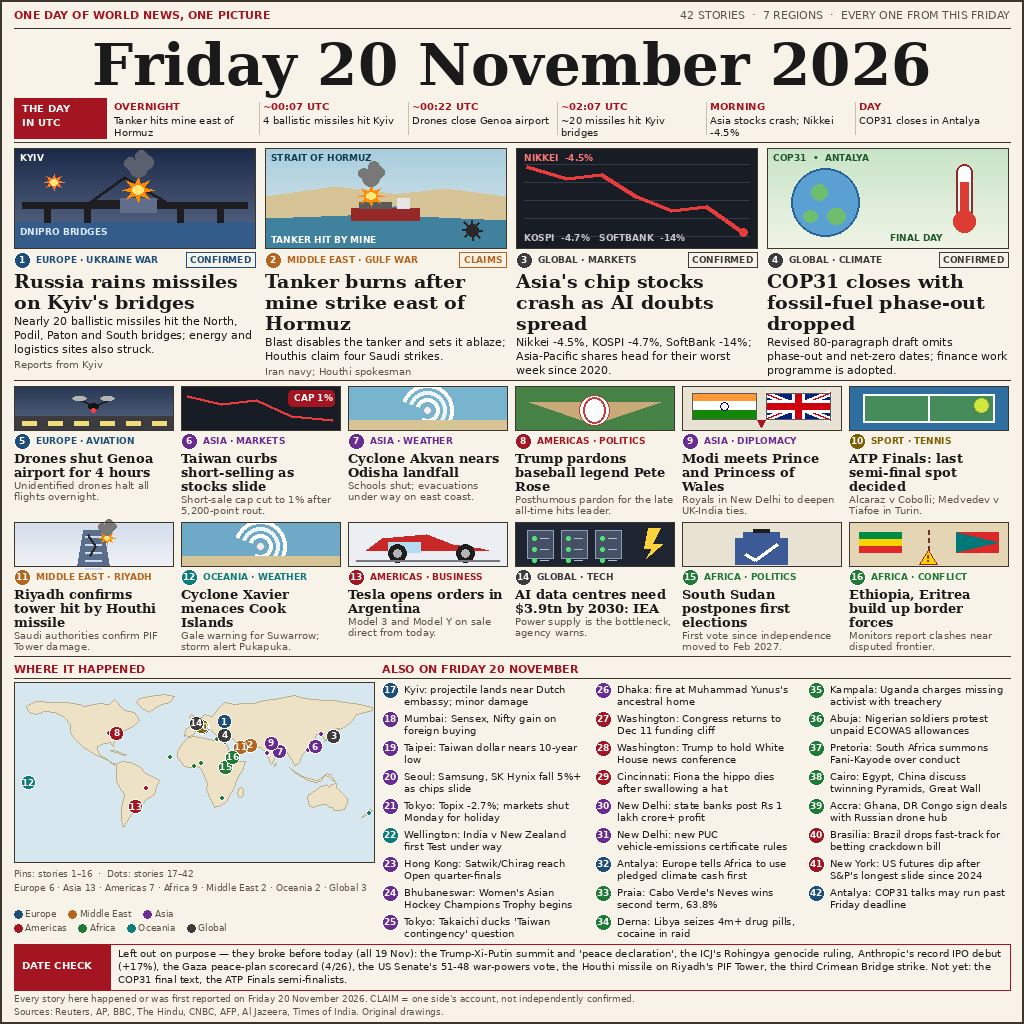
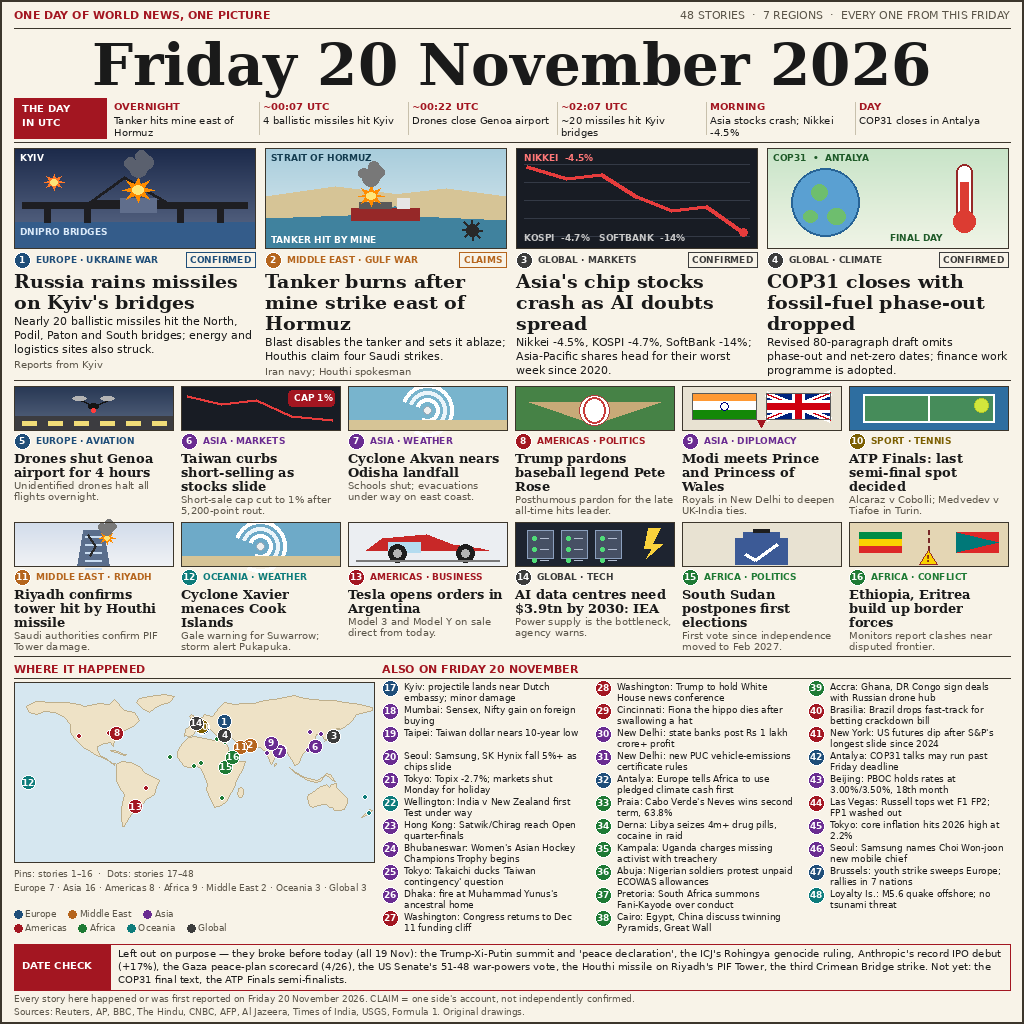
news-image-20261120: expand poster from 42 to 48 verified stories
Add 6 verified Friday 20 Nov 2026 stories to the Also list (43-48):
PBOC holds LPR, Russell tops wet Las Vegas F1 FP2, Japan core CPI hits
2026 high, Samsung names new mobile chief, Europe-wide youth strike,
M5.6 quake off Loyalty Islands. Also grid resized to 3x11 rows; header,
map legend, region tally and sources updated. main.py behaviour
unchanged (docstring only).

Changed region(s): [[0.375, 0.6562, 0.9688, 0.9375], [0.3438, 0.9688, 0.5, 1.0]]

diff --git a/build_image.py b/build_image.py
@@ -57,6 +57,7 @@ F_MED_H = font("DejaVuSerif-Bold.ttf", 13)
 F_MED_B = font("DejaVuSans.ttf", 10)
 F_SEC = font("DejaVuSans-Bold.ttf", 11)
 F_ALSO = font("DejaVuSans.ttf", 10)
+F_ALSO_S = font("DejaVuSans.ttf", 9)
 F_ALSO_B = font("DejaVuSans-Bold.ttf", 10)
 F_DC_L = font("DejaVuSans-Bold.ttf", 10)
 F_DC = font("DejaVuSans.ttf", 10)
@@ -625,6 +626,18 @@ ALSO = [
      -74.01, 40.71, "AMERICAS"),
     (42, "Antalya", "COP31 talks may run past Friday deadline",
      30.71, 36.90, "EUROPE"),
+    (43, "Beijing", "PBOC holds rates at 3.00%/3.50%, 18th month",
+     116.41, 39.90, "ASIA"),
+    (44, "Las Vegas", "Russell tops wet F1 FP2; FP1 washed out",
+     -115.14, 36.17, "AMERICAS"),
+    (45, "Tokyo", "core inflation hits 2026 high at 2.2%",
+     139.69, 35.68, "ASIA"),
+    (46, "Seoul", "Samsung names Choi Won-joon new mobile chief",
+     126.98, 37.57, "ASIA"),
+    (47, "Brussels", "youth strike sweeps Europe; rallies in 7 nations",
+     4.35, 50.85, "EUROPE"),
+    (48, "Loyalty Is.", "M5.6 quake offshore; no tsunami threat",
+     171.23, -24.70, "OCEANIA"),
 ]
 
 TIMELINE = [
@@ -648,7 +661,7 @@ FOOTER_L = ("Every story here happened or was first reported on Friday "
             "20 November 2026. CLAIM = one side's account, not independently "
             "confirmed.")
 FOOTER_R = ("Sources: Reuters, AP, BBC, The Hindu, CNBC, AFP, Al Jazeera, "
-            "Times of India. Original drawings.")
+            "Times of India, USGS, Formula 1. Original drawings.")
 
 MX = 14  # side margin
 
@@ -656,7 +669,7 @@ MX = 14  # side margin
 def draw_top(d):
     d.text((MX, 8), "ONE DAY OF WORLD NEWS, ONE PICTURE", font=F_TOP,
            fill=RED)
-    r = "42 STORIES  \u00b7  7 REGIONS  \u00b7  EVERY ONE FROM THIS FRIDAY"
+    r = "48 STORIES  \u00b7  7 REGIONS  \u00b7  EVERY ONE FROM THIS FRIDAY"
     d.text((W - MX - d.textlength(r, font=F_TOP_R), 8), r, font=F_TOP_R,
            fill=MUTED)
     d.line([(MX, 28), (W - MX, 28)], fill=RULE, width=1)
@@ -731,10 +744,10 @@ def draw_bottom(d):
     dots = [(a[3], a[4], REGION_COLORS[a[5]]) for a in ALSO]
     draw_map(d, mbox, pins, dots)
     ly = 868
-    d.text((MX, ly), "Pins: stories 1\u201316  \u00b7  Dots: stories 17\u201342",
+    d.text((MX, ly), "Pins: stories 1\u201316  \u00b7  Dots: stories 17\u201348",
            font=F_FOOT, fill=MUTED)
-    tally = ("Europe 6  \u00b7  Asia 13  \u00b7  Americas 7  \u00b7  Africa 9  "
-             "\u00b7  Middle East 2  \u00b7  Oceania 2  \u00b7  Global 3")
+    tally = ("Europe 7  \u00b7  Asia 16  \u00b7  Americas 8  \u00b7  Africa 9  "
+             "\u00b7  Middle East 2  \u00b7  Oceania 3  \u00b7  Global 3")
     text_block(d, MX, ly + 14, tally, F_FOOT, 360, MUTED, 12, max_lines=2)
     lx = MX
     ly2 = 910
@@ -751,17 +764,17 @@ def draw_bottom(d):
         if name == "Asia":
             lx = MX
             ly2 += 14
-    # also list: 3 columns x 9 rows
-    cols = [ALSO[i * 9:(i + 1) * 9] for i in range(3)]
+    # also list: 3 columns x 11 rows (32 items, stories 17-48)
+    cols = [ALSO[i * 11:(i + 1) * 11] for i in range(3)]
     cx0, cw = 382, 201
     for ci, col_items in enumerate(cols):
         cx = cx0 + ci * (cw + 12)
         for ri, (num, place, text, lon, lat, region) in enumerate(col_items):
-            ry = 682 + ri * 29
+            ry = 680 + ri * 23
             col = REGION_COLORS[region]
             badge(d, cx, ry, num, col)
             full = "%s: %s" % (place, text)
-            text_block(d, cx + 22, ry + 1, full, F_ALSO, cw - 22, INK, 12,
+            text_block(d, cx + 22, ry + 1, full, F_ALSO_S, cw - 22, INK, 11,
                        max_lines=2)
 
 

diff --git a/main.py b/main.py
@@ -3,7 +3,7 @@
 
 The poster (entry.png, bundled in this repo) was drawn offline from news
 verified as having happened or first been reported on 20 November 2026:
-42 stories, a UTC timeline strip, a world map with pins, and a DATE CHECK
+48 stories, a UTC timeline strip, a world map with pins, and a DATE CHECK
 box listing the previous day's big stories that were deliberately left out.
 
 This program only copies the bundled image to the output path, so both

diff --git a/REVISI-46.md b/REVISI-46.md
@@ -1,0 +1,76 @@
+# Revisi news-image-20261120: 42 → 48 cerita
+
+Tanggal revisi: Jumat 20 November 2026 (~13:00 WIB).
+Alasan: patokan pemenang news-image adalah 46–50 cerita bersumber; entri awal
+hanya 42. Bos memerintahkan penambahan ("kalo menurut kamu bisa lebih baik
+lagi coba aja tambahin") dengan prioritas BERITA YANG MENARIK.
+
+## Hasil akhir
+
+- Jumlah cerita: **48** (4 lead + 12 medium + 32 "Also on Friday")
+- Ukuran entry.png: **224.105 bytes** (≤ 1 MiB), 1024×1024
[1 lines of base64/hex data omitted]
+- Tally region (geografis): Europe 7 · Asia 16 · Americas 8 · Africa 9 ·
+  Middle East 2 · Oceania 3 · Global 3 = 48
+
+## Cerita tambahan (semua terverifikasi terjadi/dilaporkan pertama kali pada Jumat 20 November 2026)
+
+| # | Cerita di poster | Fakta + sumber |
+|---|---|---|
+| 43 | Beijing: PBOC holds rates at 3.00%/3.50%, 18th month | PBOC menahan 1-year LPR 3,00% dan 5-year 3,50% pada 20 Nov 01:00 UTC, bulan ke-18 berturut-turut. Sumber: Reuters (via TradingView/Morningstar), FXStreet, Seeking Alpha, investinglive. |
+| 44 | Las Vegas: Russell tops wet F1 FP2; FP1 washed out | George Russell (Mercedes) tercepat di FP2 GP Las Vegas 1:47.272; FP1 washout tanpa satu pun lap time. Sumber: formula1.com (published 2026-11-20T05:17Z), PlanetF1, Crash.net, Speedcafe. |
+| 45 | Tokyo: core inflation hits 2026 high at 2.2% | CPI inti Jepang Oktober +2,2% y/y (rilis 20 Nov), tertinggi 2026, di atas target BOJ 2% dua bulan beruntun; kenaikan suku bunga Desember makin mungkin. Sumber: Reuters ("TOKYO, Nov 20"), ActionForex, Longbridge. |
+| 46 | Seoul: Samsung names Choi Won-joon new mobile chief | Samsung menunjuk Choi Won-joon sebagai kepala divisi Mobile eXperience (MX), menggantikan TM Roh setelah ~7 tahun; Hwang Sang-joon pimpin bisnis memori. Sumber: Reuters ("SEOUL, Nov 20"), Samsung Newsroom, SamMobile, 9to5Google. |
+| 47 | Brussels: youth strike sweeps Europe; rallies in 7 nations | Aksi mogok/protes pemuda terkoordinasi di 7 negara Eropa (Prancis, Inggris, Belgia, Spanyol, Italia, Portugal, Yunani) soal biaya hidup, perumahan, pendidikan dan anti-militerisasi; koalisi 50+ kelompok, 25+ negara. Sumber: AFP (via Bangkok Post), Wisevoter, Particle, In-Common. |
+| 48 | Loyalty Is.: M5.6 quake offshore; no tsunami threat | Gempa M5.6 di tenggara Kepulauan Loyalty, 20 Nov 00:49 UTC, kedalaman 10 km; USGS green alert, tanpa ancaman tsunami. Sumber: USGS (via watchers.live, terremoto.developers.do, nova.alicetears.com). |
+
+## Kandidat yang DITOLAK (sudah dicek, gagal verifikasi tanggal)
+
+Semua ini ternyata terjadi/dilaporkan pertama kali pada 19 November (atau
+lebih lama), jadi tidak boleh masuk poster 20 November:
+
+- UK £260m / 1.000+ drone untuk Ukraina — diumumkan 19 Nov di Berlin (GOV.UK).
+- Protes 13.000 orang di Tokyo lawan Takaichi — aksi 19 Nov malam.
+- Sanksi AS terhadap Comancheros & 'Ndrangheta — pernyataan State Dept 19 Nov.
+- Seruan 4 negara soal bantuan Gaza — pernyataan bersama 15/16 Nov.
+- Anthropic masuk indeks MSCI/FTSE — diumumkan Kamis 19 Nov.
+- IDFA Best Film "The Year of the Ghost" — menang Kamis 19 Nov.
+- Kenya: pasien Ebola terakhir pulang — 11 Nov.
+- Panel DPR AS: 880.000 chip AI untuk China — dirilis Kamis 19 Nov.
+- Meta meninjau target net-zero 2030 — laporan keberlanjutan Kamis 19 Nov.
+- Gemini "computer use" untuk Mac — diluncurkan 19 Nov.
+- Telepon wartawan disita di Air Force One — Kamis 19 Nov (Shenzhen).
+- Israel: Herzog menunjuk Eisenkot — mandat diberikan 8–9 Nov.
+- US existing-home sales Oktober — dirilis 12 Nov.
+- Hasil ONS retail sales Inggris Oktober — tidak ditemukan angka aktualnya
+  di hasil pencarian (hanya prakiraan); tidak dipakai.
+
+## Perubahan teknis
+
+- `build_image.py`: 6 entri ditambahkan ke `ALSO` (43–48); grid "Also"
+  diubah dari 3 kolom × 9 baris (font 10, baris 29px) menjadi 3 kolom ×
+  11 baris (font 9, baris 23px) agar 32 item muat; header "48 STORIES";
+  legenda peta "Dots: stories 17–48"; tally region diperbarui; footer
+  sumber ditambah USGS + Formula 1.
+- `README.md`: 42 → 48 cerita, 26 → 32 cerita "Also", dots 17–48,
+  sumber ditambah USGS + Formula 1. Tiga badge make.fun + link bounty
+  tetap di atas, tidak berubah.
+- `main.py`: HANYA docstring (42 → 48); perilaku tidak berubah —
+  tetap menyalin entry.png, stdlib only (os, shutil), offline.
+
+## Verifikasi
+
+- `main.py` dijalankan 2× (MAKEFUN_OUTPUT_DIR berbeda): kedua output
+  byte-identical dengan entry.png (SHA-256 sama, di atas).
+- `build_image.py` dijalankan ulang: SHA-256 entry.png sama (build
+  deterministik).
+- Clean checkout: repo di-clone dari GitHub ke direktori baru, `main.py`
+  dijalankan di sana — output byte-identical (SHA-256 sama).
+- Poster dicek visual: daftar "Also" 32 item terbaca penuh, tidak ada
+  teks terpotong atau tumpang tindih dengan kotak DATE CHECK; pin/dot
+  peta baru tampil (Las Vegas, Beijing, Tokyo, Seoul, Brussels,
+  Loyalty Is.).
+
+## Commit
+
+- Commit revisi: (diisi setelah commit)

diff --git a/README.md b/README.md
@@ -9,7 +9,7 @@ https://make.fun/bounty/news-image-20261120
 
 ## The poster
 
-A one-page newspaper front page for **Friday 20 November 2026** — 42 stories,
+A one-page newspaper front page for **Friday 20 November 2026** — 48 stories,
 7 regions, every one of them verified as having happened or first been
 reported on that day:
 
@@ -23,16 +23,17 @@ reported on that day:
   confirming the PIF Tower hit, Cyclone Xavier, Tesla opening orders in
   Argentina, the IEA's $3.9 trillion AI data-centre warning, South Sudan's
   postponed elections, and the Ethiopia–Eritrea border build-up.
-- **26 more stories** in the numbered "Also on Friday" list.
+- **32 more stories** in the numbered "Also on Friday" list.
 - **A UTC timeline strip** (overnight → day), a **world map with numbered
-  pins** for stories 1–16 and dots for 17–42, and a **DATE CHECK box**
+  pins** for stories 1–16 and dots for 17–48, and a **DATE CHECK box**
   listing the previous day's big stories that were deliberately left out
   (the Trump–Xi–Putin summit, the ICJ Rohingya ruling, Anthropic's IPO
   debut, the Gaza scorecard, the US Senate war-powers vote, the Houthi
   missile on Riyadh's PIF Tower, the third Crimean Bridge strike).
 
 Sources: Reuters, AP, BBC, The Hindu, CNBC, AFP, Al Jazeera, Times of
-India. All illustrations are original drawings made for this entry.
+India, USGS, Formula 1. All illustrations are original drawings made for
+this entry.
 
 ## How it works
 
